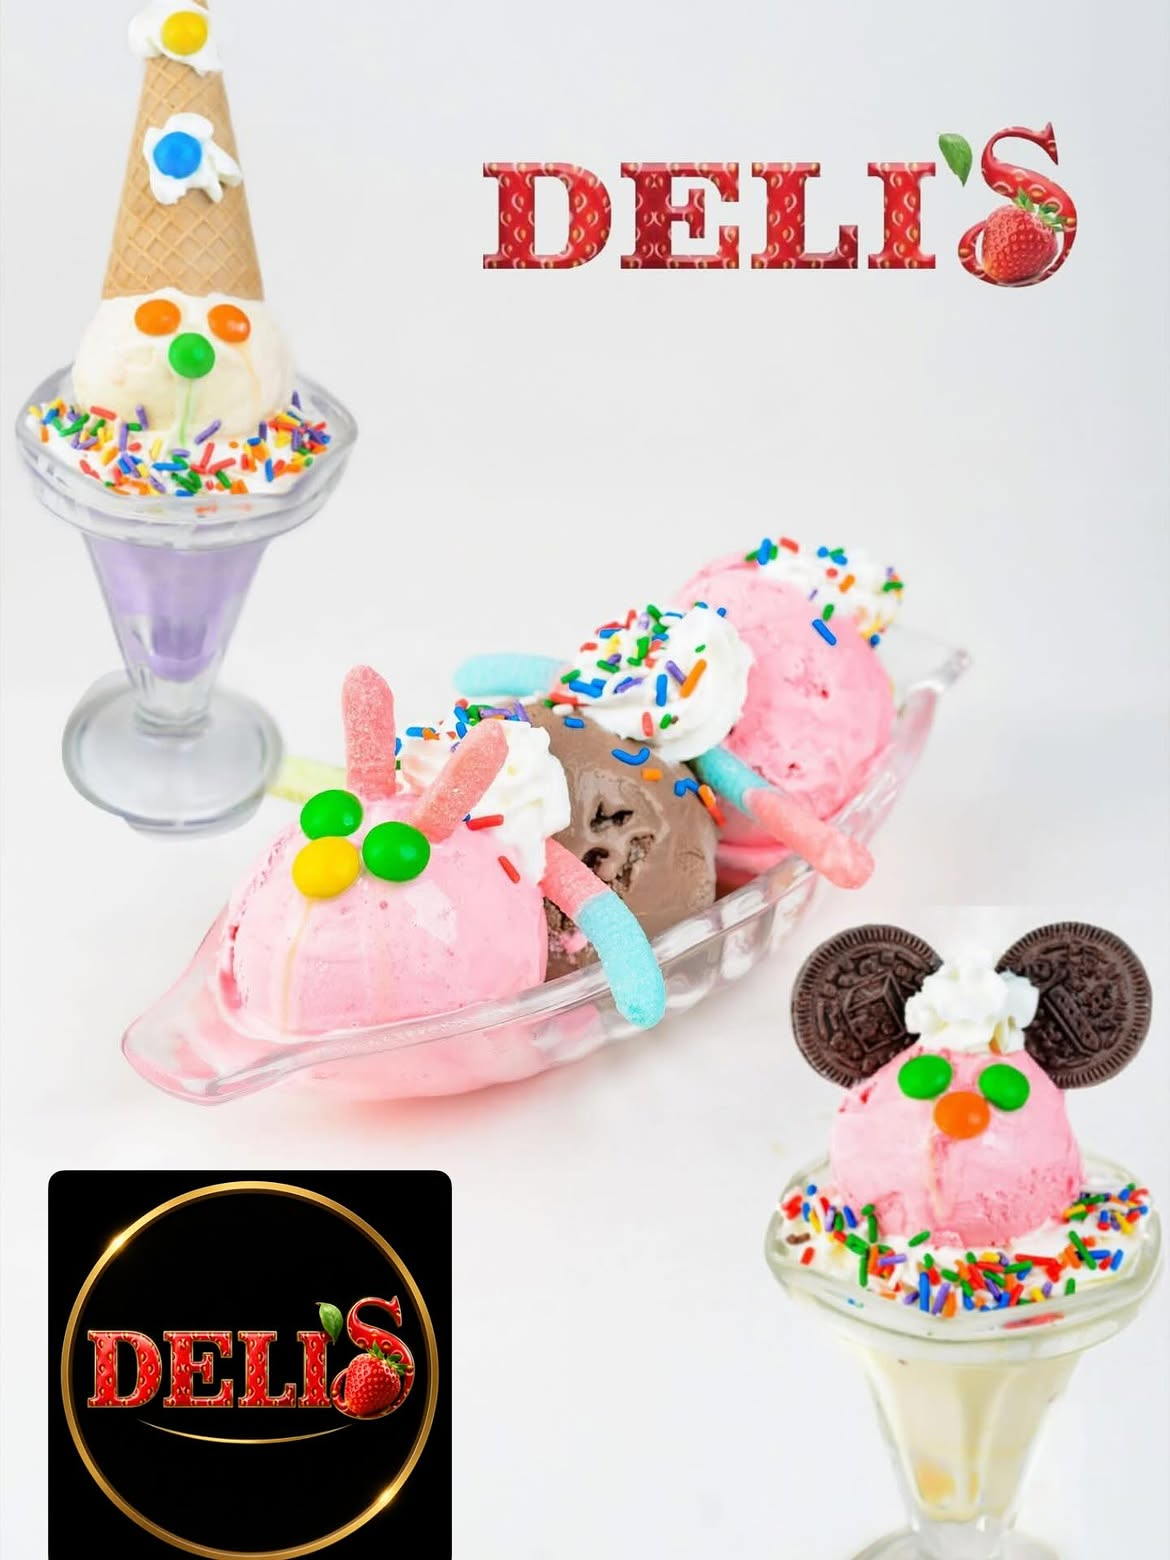
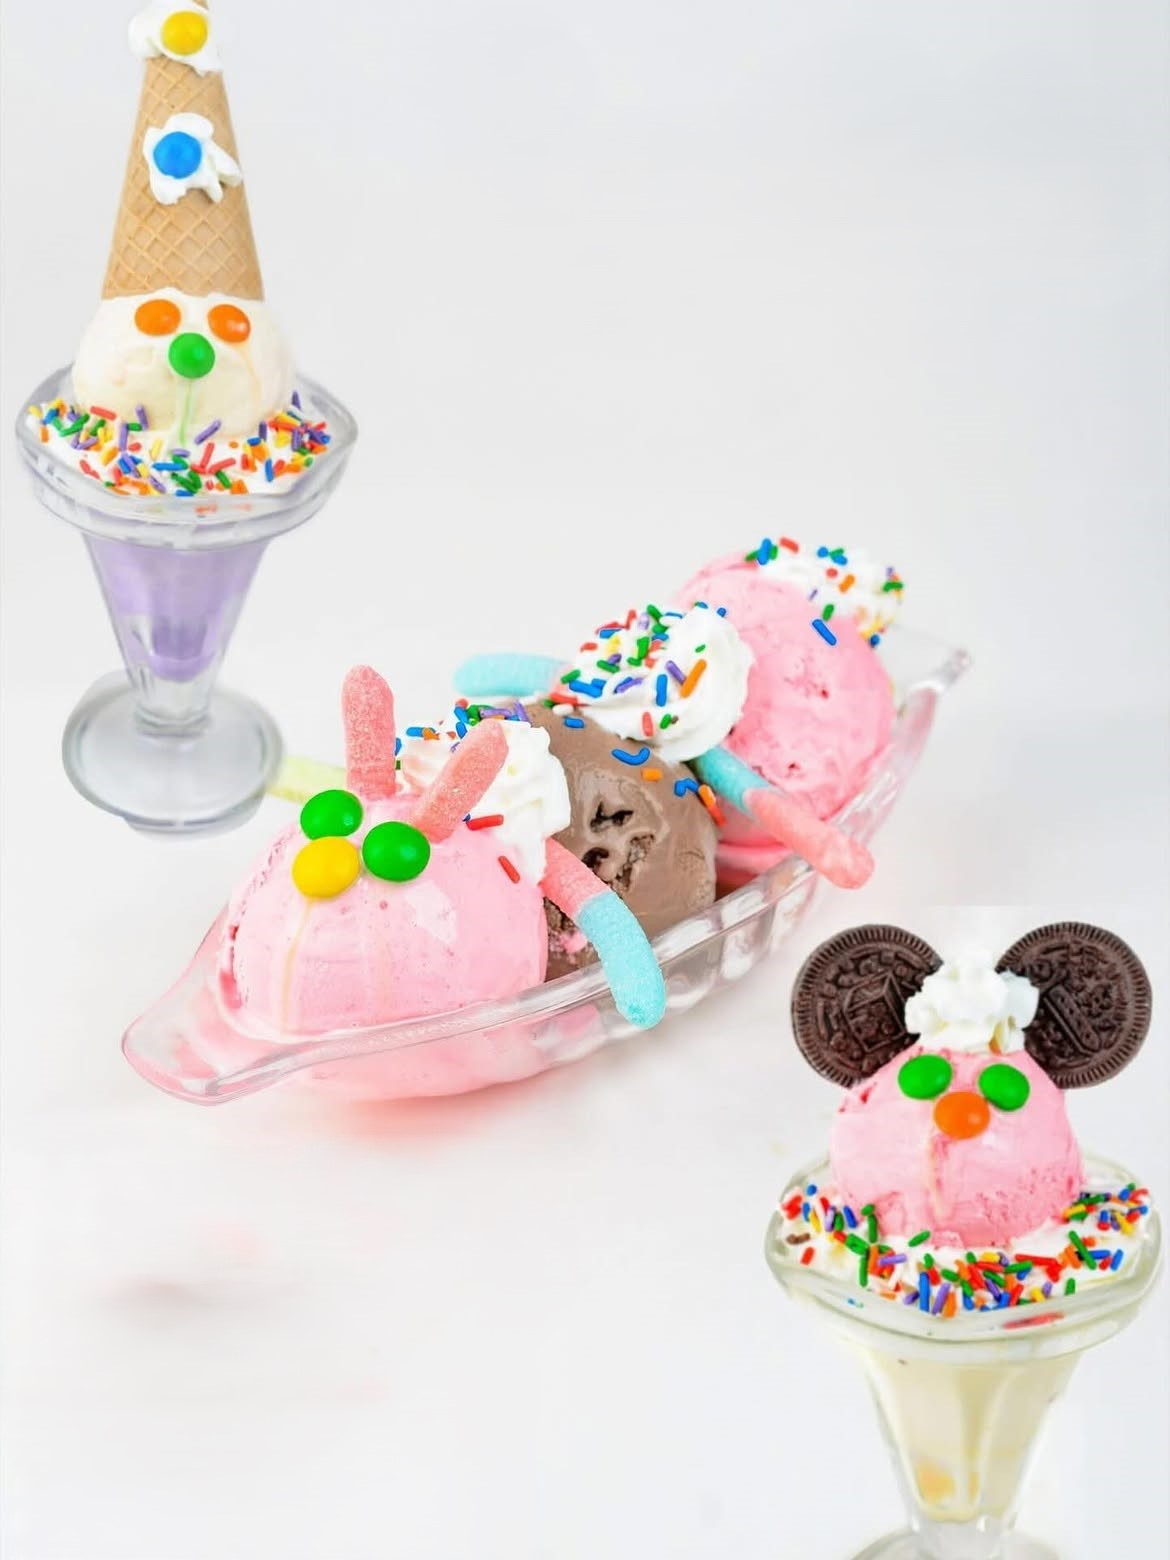
creacion de la pagina de ironfit y sus apartados

Changed region(s): [[0.0308, 0.7385, 0.4, 1.0], [0.4, 0.0615, 0.9231, 0.1846]]

diff --git a/pags/ironfit.html b/pags/ironfit.html
@@ -1,0 +1,96 @@
+<!DOCTYPE html>
+<html lang="en">
+<head>
+    <meta charset="UTF-8">
+    <meta name="viewport" content="width=device-width, initial-scale=1.0">
+    <title>Bulevar Sarchí</title>
+</head>
+<body>
+    <header>
+        <img src="../img/ironFit08/logo.JPG.jpeg" alt="logo">
+
+           <hr>
+        <nav>
+           <a href="../index.html">Bulevar</a>
+            <a href="#">Aurum</a>
+            <a href="bowlo.html">Bowlo</a>
+            <a href="#">Delis</a>
+            <a href="distritohumo.html">Distrito Humo</a>
+            <a href="elConvite.html">El Convite</a>
+            <a href="hastaElElote.html">Hasta el Elote</a>
+            <a href="#">IronFit</a>
+            <a href="#">Raíz Tica Café</a>
+            <a href="#">Roll Art</a>
+            <a href="#">Yuli Salón</a>
+        </nav>
+        <hr>
+    </header>
+    <!--main---------------------------------------------------------------------------------------------------------------------------------->
+    <main>
+        <section id="carrusel">
+            <h2>Prendas</h2>
+            <img src="../img/ironFit08/carrusel1.jpg" alt="prenda1">
+            <img src="../img/ironFit08/carrusel5.jpg" alt="prenda2">
+            <img src="../img/ironFit08/carrusel2.jpg" alt="prenda3">
+            <img src="../img/ironFit08/carrusel4.jpg" alt="prenda4">
+            <img src="../img/ironFit08/carrusel7.jpg" alt="prenda5">
+            <img src="../img/ironFit08/carrusel3.jpg" alt="prenda6">
+            <img src="../img/ironFit08/carrusel6.jpg" alt="prenda7">
+            <img src="../img/ironFit08/carrusel8.jpg" alt="prenda8">
+        </section>
+        <hr>
+
+        <section id="informacion">
+            <h2>Acerca de</h2>
+            <p>Esta tienda de ropa deportiva se especializa en ofrecer colecciones modernas y funcionales para personas que buscan comodidad, 
+            estilo y rendimiento en sus actividades diarias. Cuenta con una amplia variedad de prendas, como camisetas, leggings, shorts, 
+            sudaderas y accesorios deportivos, diseñados para diferentes disciplinas y estilos de vida.</p>
+            <img src="../img/ironFit08/ropaDeportiva.jpg" alt="ropaDeportiva">
+
+            <p>Las colecciones se renuevan periódicamente para adaptarse a las tendencias actuales y a las necesidades de los clientes. 
+            Cada línea de productos está elaborada con materiales de calidad que brindan frescura, movilidad y durabilidad, permitiendo 
+            un mejor desempeño durante el ejercicio o las actividades recreativas.</p>
+            <img src="../img/ironFit08/ropaDeportiva2.jpg" alt="ropaDeportiva2">
+
+            <p>Además de promover la actividad física, la tienda busca que sus clientes expresen su personalidad a través de la moda deportiva. 
+            Por ello, ofrece diseños innovadores, diferentes colores y tallas variadas, garantizando opciones para hombres, mujeres y jóvenes.</p>
+            <img src="../img/ironFit08/ropadeportiva3.jpg" alt="ropadeportiva3">
+        </section>
+    </main>
+    <!--footer---------------------------------------------------------------------------------------------------------------------------------->
+    <footer>
+        <hr>
+        <section id="horario">
+            <h3>Horario</h3>
+            <ul>
+                <li>Martes a Jueves: 11:30am - 9pm</li>
+                <li>Viernes a Domingo: 11:30am - 10pm</li>
+        
+            </ul>
+
+        </section>
+        
+       
+
+        <section id="contacto">  
+                <h3>Contacto</h3>
+                <ul>
+                    <li><a href="https://wa.me/50687289396"> <img src="../img/extras/whatsapp.png" alt="WhatsApp">+506 8728 9396 </a></li>
+                </ul>
+        </section>
+         
+         <img src="../img/ironFit08/logo.JPG.jpeg" alt="logo"> 
+
+        <section id="siguenos">
+            <h3>Síguenos</h3>
+            <ul>
+                <li><a href="https://www.tiktok.com/@ironfit08?is_from_webapp=1&sender_device=pc"> <img src="../img/extras/tiktok.png" alt=""></a></li>
+                <li><a href="https://www.instagram.com/ironfit08?utm_source=ig_web_button_share_sheet&igsh=ZDNlZDc0MzIxNw=="> <img src="../img/extras/instagram.png" alt=""></a></li>
+            </ul>
+        </section>
+
+        <hr>
+        &copy; Bulevar Plaza Sarchí. Todos los derechos reservados.
+    </footer>
+</body>
+</html>
